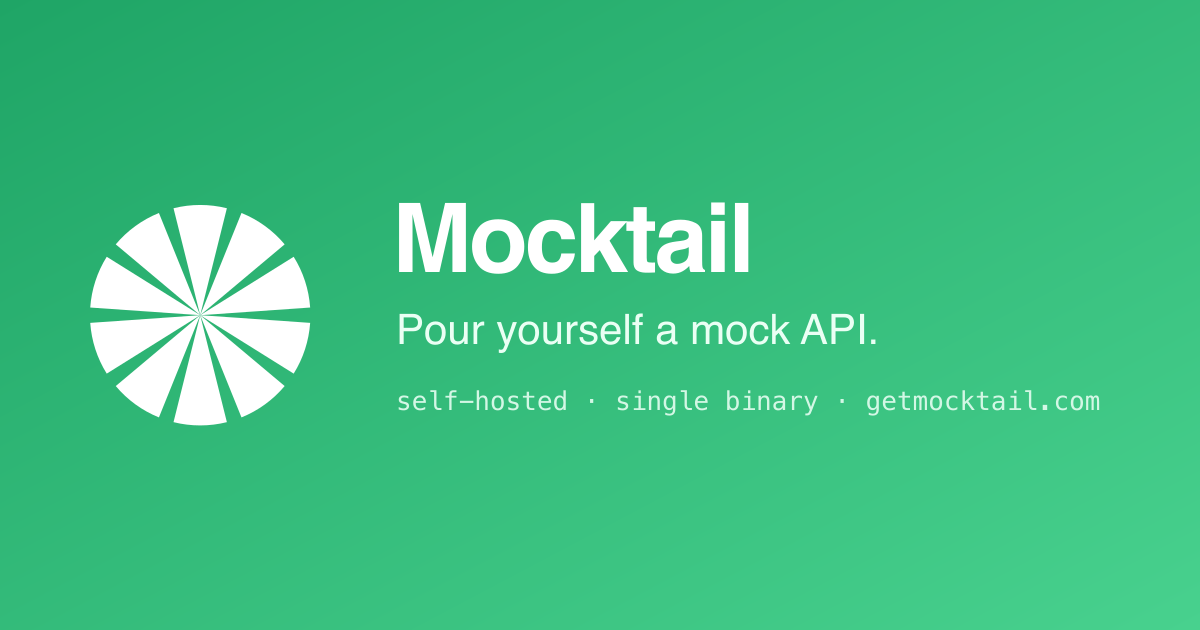
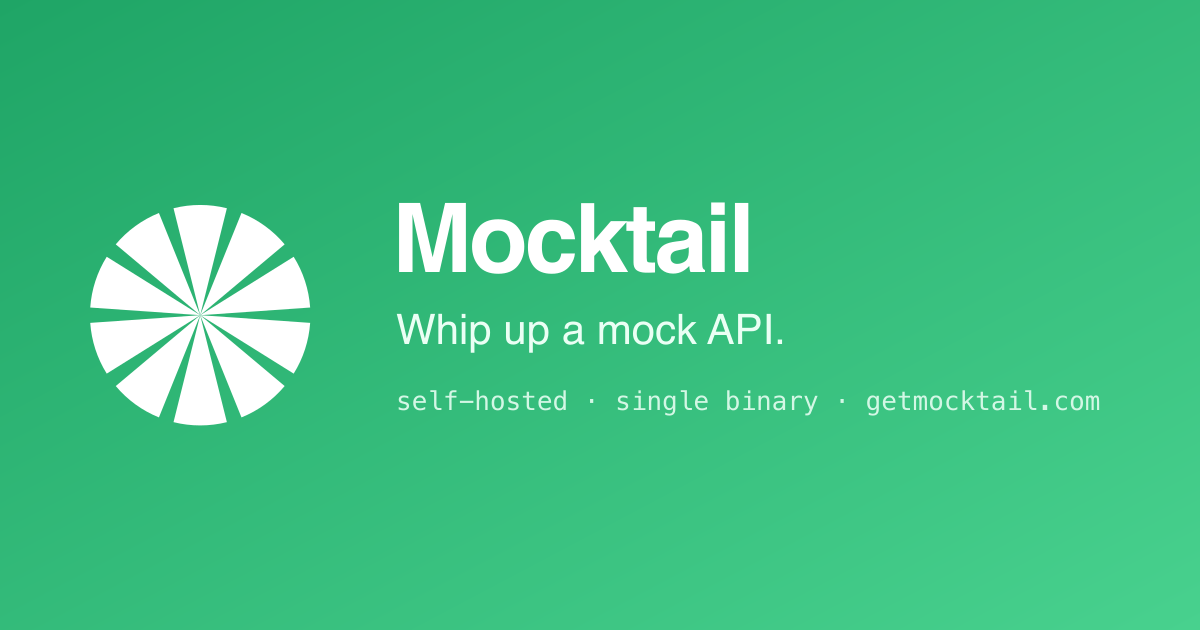
Update: release items

Changed region(s): [[0.3083, 0.4825, 0.74, 0.573]]

diff --git a/landing/index.html b/landing/index.html
@@ -110,7 +110,7 @@
   .tgl { width: 36px; height: 36px; border-radius: 50%; border: 1px solid var(--line); background: var(--card); cursor: pointer; color: var(--soft); }
   .tgl:hover { color: var(--ink); }
 
-  .hero .wrap { display: grid; grid-template-columns: 1.02fr 0.98fr; gap: 30px; align-items: center; padding: 26px 0 20px; min-height: 460px; }
+  .hero .wrap { display: grid; grid-template-columns: 1.02fr 0.98fr; gap: 30px; align-items: center; padding-block: 26px 20px; min-height: 460px; }
   .eyebrow { display: inline-flex; align-items: center; gap: 8px; font-size: 13px; font-weight: 650; color: var(--leaf); background: color-mix(in oklch, var(--leaf) 12%, transparent); padding: 5px 12px; border-radius: 999px; }
   h1.big { font-size: clamp(42px, 6.4vw, 66px); line-height: 1.0; margin: 20px 0 0; }
   .sub { font-size: 18px; color: var(--soft); max-width: 450px; margin: 20px 0 28px; font-weight: 500; }
@@ -214,6 +214,7 @@
   .way { border: none; background: transparent; font-family: var(--mono); font-size: 13px; font-weight: 650; padding: 8px 18px; border-radius: 999px; cursor: pointer; color: var(--soft); display: inline-flex; align-items: center; gap: 7px; }
   .way[aria-selected="true"] { background: var(--card); color: var(--ink); box-shadow: 0 3px 10px -4px oklch(0.4 0.1 140 / 0.4); }
   .way .rec { font-size: 9px; font-weight: 800; color: white; background: var(--leaf); border-radius: 999px; padding: 1px 6px; letter-spacing: 0.04em; }
+  .way .soon { font-size: 9px; font-weight: 800; color: var(--soft); background: color-mix(in oklch, var(--soft) 16%, transparent); border-radius: 999px; padding: 1px 6px; letter-spacing: 0.04em; }
   .glassterm { max-width: 640px; margin: 0 auto; background: var(--card); border-radius: 18px; box-shadow: var(--sh); border: 1px solid var(--line); overflow: hidden; text-align: left; }
   .glassterm .h { display: flex; align-items: center; gap: 8px; padding: 13px 18px; border-bottom: 1px solid var(--line); }
   .glassterm .h .d { width: 10px; height: 10px; border-radius: 50%; }
@@ -282,13 +283,13 @@
 <header class="hero" id="top">
   <div class="wrap">
     <div>
-      <h1 class="big">Pour yourself a<br><span class="grad">mock API</span>.</h1>
+      <h1 class="big">Whip up a<br><span class="grad">mock API</span>.</h1>
       <p class="sub">A complete mock server and dashboard in one little binary — mixed fresh on your machine. No cloud, no sign-up, no bitter aftertaste.</p>
       <div class="cta">
         <a class="btn primary" href="#install">Start mixing →</a>
         <a class="btn text" href="https://github.com/Huseyinnurbaki/mocktail" target="_blank" rel="noreferrer">Star on GitHub</a>
       </div>
-      <div class="run"><b>brew install --cask mocktail</b> — a native app, on your desktop</div>
+      <div class="run">Install with <b>Homebrew</b> or <b>Docker</b> — the dashboard opens at localhost:6625</div>
     </div>
     <div class="stage" aria-hidden="true">
       <div class="halo"></div>
@@ -308,7 +309,6 @@
 <section class="showcase">
   <div class="wrap">
     <div class="cap">
-      <span class="eyebrow">The whole thing</span>
       <h2>A dashboard that comes in the box.</h2>
     </div>
     <div class="window" aria-hidden="true">
@@ -450,14 +450,15 @@
       <p>The dashboard comes with it. Open <span class="mono">localhost:6625</span> and start mocking.</p>
     </div>
     <div class="ways" role="tablist">
-      <button class="way" role="tab" aria-selected="true" data-t="desktop">Desktop <span class="rec">EASIEST</span></button>
-      <button class="way" role="tab" aria-selected="false" data-t="brew">Homebrew</button>
+      <button class="way" role="tab" aria-selected="true" data-t="brew">Homebrew <span class="rec">EASIEST</span></button>
       <button class="way" role="tab" aria-selected="false" data-t="docker">Docker</button>
+      <button class="way" role="tab" aria-selected="false" data-t="desktop">Desktop <span class="soon">SOON</span></button>
     </div>
     <div class="glassterm">
       <div class="h"><span class="d" style="background:var(--del)"></span><span class="d" style="background:var(--put)"></span><span class="d" style="background:var(--leaf)"></span><button class="cp" id="copy">Copy</button></div>
-      <div class="b"><span class="pr">$</span><pre id="cmd">brew install --cask mocktail
-<span class="cm"># a native app — auto-picks a free port</span></pre></div>
+      <div class="b"><span class="pr">$</span><pre id="cmd">brew install --cask Huseyinnurbaki/mocktail/mocktail
+mocktail
+<span class="cm"># → opens http://localhost:6625</span></pre></div>
     </div>
   </div>
 </section>
@@ -476,7 +477,7 @@
       </div>
       <div class="qa">
         <h3>How do I install Mocktail?</h3>
-        <p>Install the desktop app with Homebrew (<span class="mono">brew install --cask mocktail</span>), run it with Docker, or use the CLI. The dashboard opens at <span class="mono">localhost:6625</span>.</p>
+        <p>Install with Homebrew (<span class="mono">brew install --cask Huseyinnurbaki/mocktail/mocktail</span>) or run it with Docker; the dashboard opens at <span class="mono">localhost:6625</span>. A native desktop app is coming soon.</p>
       </div>
       <div class="qa">
         <h3>Where does my data live?</h3>
@@ -503,7 +504,7 @@
   "mainEntity": [
     { "@type": "Question", "name": "What is Mocktail?", "acceptedAnswer": { "@type": "Answer", "text": "Mocktail is a self-hosted mock API server with a built-in dashboard, shipped as a single binary. You define endpoints and their responses, and your app calls them like a real API — locally, with no cloud service." } },
     { "@type": "Question", "name": "Is Mocktail free and open source?", "acceptedAnswer": { "@type": "Answer", "text": "Yes. Mocktail is free and open source on GitHub. There's no sign-up and no paid tier to use it — it runs entirely on your own machine." } },
-    { "@type": "Question", "name": "How do I install Mocktail?", "acceptedAnswer": { "@type": "Answer", "text": "Install the desktop app with Homebrew (brew install --cask mocktail), run it with Docker, or use the CLI. The dashboard opens at localhost:6625." } },
+    { "@type": "Question", "name": "How do I install Mocktail?", "acceptedAnswer": { "@type": "Answer", "text": "Install with Homebrew (brew install --cask Huseyinnurbaki/mocktail/mocktail) or run it with Docker; the dashboard opens at localhost:6625. A native desktop app is coming soon." } },
     { "@type": "Question", "name": "Where does my data live?", "acceptedAnswer": { "@type": "Answer", "text": "Everything runs locally and is stored on your machine — self-hosted, no cloud, no telemetry. Your mocks are plain JSON you can export, commit, and share." } },
     { "@type": "Question", "name": "Can Mocktail generate realistic test data?", "acceptedAnswer": { "@type": "Answer", "text": "Optionally. Serve a fixed response as-is, or attach a generator to any field (uuid, email, price, name) so it returns fresh data on every request. Point one at a real response and it anonymizes it." } },
     { "@type": "Question", "name": "Does Mocktail work with AI tools?", "acceptedAnswer": { "@type": "Answer", "text": "Yes. A built-in AI assistant drafts responses from a plain-language prompt (bring your own key), and the MCP server lets Claude Desktop and Claude Code create and edit your mocks." } }
@@ -533,12 +534,12 @@
     root.setAttribute("data-theme", next); localStorage.setItem("mt-v5-theme", next);
   });
   const CMDS = {
-    desktop:{ html: 'brew install --cask mocktail\n<span class="cm"># a native app — auto-picks a free port</span>', copy: "brew install --cask mocktail" },
-    brew:   { html: 'brew install mocktail\nmocktail\n<span class="cm"># → opens http://localhost:6625</span>', copy: "brew install mocktail && mocktail" },
+    brew:   { html: 'brew install --cask Huseyinnurbaki/mocktail/mocktail\nmocktail\n<span class="cm"># → opens http://localhost:6625</span>', copy: "brew install --cask Huseyinnurbaki/mocktail/mocktail && mocktail" },
     docker: { html: 'docker run -p 6625:6625 -v $(pwd)/data:/db hhaluk/mocktail:latest\n<span class="cm"># → open http://localhost:6625</span>', copy: "docker run -p 6625:6625 -v $(pwd)/data:/db hhaluk/mocktail:latest" },
+    desktop:{ html: '<span class="cm"># A native desktop app is coming soon.</span>\n<span class="cm"># For now, install with Homebrew or Docker above.</span>', copy: "" },
   };
   const cmd = document.getElementById("cmd");
-  cmd.dataset.copy = CMDS.desktop.copy;
+  cmd.dataset.copy = CMDS.brew.copy;
   document.querySelectorAll(".way").forEach(w => w.addEventListener("click", () => {
     document.querySelectorAll(".way").forEach(x => x.setAttribute("aria-selected", "false"));
     w.setAttribute("aria-selected", "true");

diff --git a/mocktail-ui/src/hooks/useLatestRelease.ts b/mocktail-ui/src/hooks/useLatestRelease.ts
@@ -1,14 +1,17 @@
 import { useEffect, useState } from 'react'
 
-const REPO = 'Huseyinnurbaki/mocktail'
+// The latest version is published as a static file on our own domain (Cloudflare CDN) rather
+// than the GitHub API — no rate limits, we own the payload, and it carries release highlights.
+const VERSION_URL = 'https://getmocktail.com/version.json'
 
 export type ReleaseState = {
   status: 'checking' | 'latest' | 'outdated' | 'unknown'
   latest?: string
   url?: string
+  highlights?: string[]
 }
 
-// Session cache — check GitHub at most once per app run (and never block anything on it).
+// Session cache — check at most once per app run (and never block anything on it).
 let releaseCache: ReleaseState | null = null
 
 function cmpVer(a: string, b: string): number {
@@ -21,23 +24,28 @@ function cmpVer(a: string, b: string): number {
   return 0
 }
 
-/** Checks GitHub's latest release once (per app run) and compares to the running version. */
+/**
+ * Reads getmocktail.com/version.json once (per app run) and compares to the running version.
+ * Entirely best-effort: any failure (offline, DNS, CORS, non-200, bad JSON, or a 5s timeout)
+ * resolves to `unknown` — it never throws, never blocks render, and the app works regardless.
+ */
 export function useLatestRelease(): ReleaseState {
   const [state, setState] = useState<ReleaseState>(releaseCache ?? { status: 'checking' })
   useEffect(() => {
     if (releaseCache) return
     let alive = true
-    fetch(`https://api.github.com/repos/${REPO}/releases/latest`, {
-      headers: { Accept: 'application/vnd.github+json' },
-    })
+    const ctrl = new AbortController()
+    const timer = setTimeout(() => ctrl.abort(), 5000) // don't let a hanging endpoint linger
+    fetch(VERSION_URL, { signal: ctrl.signal })
       .then((r) => (r.ok ? r.json() : Promise.reject(new Error(String(r.status)))))
-      .then((d: { tag_name?: string; html_url?: string }) => {
-        const tag = (d.tag_name ?? '').trim()
-        releaseCache = tag
+      .then((d: { version?: string; url?: string; highlights?: string[] }) => {
+        const v = (d.version ?? '').trim()
+        releaseCache = v
           ? {
-              status: cmpVer(tag, __APP_VERSION__) > 0 ? 'outdated' : 'latest',
-              latest: tag.replace(/^v/, ''),
-              url: d.html_url,
+              status: cmpVer(v, __APP_VERSION__) > 0 ? 'outdated' : 'latest',
+              latest: v.replace(/^v/, ''),
+              url: d.url,
+              highlights: d.highlights,
             }
           : { status: 'unknown' }
         if (alive) setState(releaseCache)
@@ -46,6 +54,8 @@ export function useLatestRelease(): ReleaseState {
         releaseCache = { status: 'unknown' }
         if (alive) setState(releaseCache)
       })
+      .finally(() => clearTimeout(timer))
+    // On unmount just stop updating state — let the request finish/cache in the background.
     return () => {
       alive = false
     }

diff --git a/mocktail-ui/src/components/SettingsModal.tsx b/mocktail-ui/src/components/SettingsModal.tsx
@@ -88,10 +88,14 @@ export function SettingsModal({
             <span className="font-mono text-[11px] text-muted">v{__APP_VERSION__}</span>
             {release.status === 'outdated' ? (
               <a
-                href={SITE_URL}
+                href={release.url ?? SITE_URL}
                 target="_blank"
                 rel="noreferrer noopener"
-                title={`Update available — v${release.latest}. Click for install & upgrade docs.`}
+                title={`Update available — v${release.latest}${
+                  release.highlights?.length
+                    ? '\n\n' + release.highlights.map((h) => `• ${h}`).join('\n')
+                    : ''
+                }\n\nClick for install & upgrade docs.`}
                 aria-label={`Update available: version ${release.latest}`}
                 className="ml-auto text-accent-text transition-colors hover:text-accent"
               >

diff --git a/mocktail-api/main.go b/mocktail-api/main.go
@@ -2,8 +2,10 @@ package main
 
 import (
 	"crypto/rand"
+	"embed"
 	"encoding/hex"
 	"fmt"
+	"io/fs"
 	"log"
 	"mocktail-api/ai"
 	"mocktail-api/core"
@@ -11,6 +13,7 @@ import (
 	"mocktail-api/logger"
 	"mocktail-api/mocktail"
 	"net"
+	"net/http"
 	"os"
 	"path/filepath"
 	"strings"
@@ -18,10 +21,20 @@ import (
 
 	"github.com/gofiber/fiber/v2"
 	"github.com/gofiber/fiber/v2/middleware/cors"
+	"github.com/gofiber/fiber/v2/middleware/filesystem"
 	"github.com/joho/godotenv"
 	"github.com/ncruces/go-sqlite3/gormlite"
 	"gorm.io/gorm"
 )
+
+// uiFS holds the built dashboard, baked into the binary so it's fully self-contained (works
+// wherever it's installed — brew, a .app bundle, anywhere — no ./build directory needed).
+// The build pipeline (Makefile build-ui / Dockerfile) stages the Vite output into ./build before
+// `go build`. A committed .gitkeep keeps this compiling when the UI hasn't been built (e.g. CI's
+// Go-only job); the served dashboard is empty in that case, which those jobs don't exercise.
+//
+//go:embed all:build
+var uiFS embed.FS
 
 // API Key middleware
 func apiKeyMiddleware(c *fiber.Ctx) error {
@@ -91,8 +104,6 @@ func adminAuthMiddleware(c *fiber.Ctx) error {
 }
 
 func setupRoutes(app *fiber.App) {
-	app.Static("/", "./build")
-
 	// Health check endpoint (no auth)
 	app.Get("/health", func(c *fiber.Ctx) error {
 		return c.JSON(fiber.Map{
@@ -130,6 +141,11 @@ func setupRoutes(app *fiber.App) {
 	mocktailApi.Patch("/:endpoint/*", mocktail.MockApiHandler)
 	mocktailApi.Delete("/:endpoint/*", mocktail.MockApiHandler)
 
+	// Serve the embedded dashboard — registered LAST so it only catches paths no API route
+	// claimed (the app's UI, /assets/*, favicon, etc.). The dashboard is baked into the binary,
+	// so this works wherever the binary is installed.
+	build, _ := fs.Sub(uiFS, "build")
+	app.Use("/", filesystem.New(filesystem.Config{Root: http.FS(build), Index: "index.html"}))
 }
 
 // resolveDBPath decides where apis.db lives:
@@ -200,7 +216,46 @@ func bindListener() (net.Listener, error) {
 	return net.Listen("tcp", ":0")
 }
 
+// version is set at build time by GoReleaser via -ldflags "-X main.version=...".
+var version = "dev"
+
+const usage = `Mocktail — self-hosted mock API server + dashboard, in a single binary.
+
+Usage:
+  mocktail            Start the server (dashboard + mock API); prints the URL.
+  mocktail --version  Print the version.
+  mocktail --help     Show this help.
+
+Common environment variables:
+  MOCKTAIL_PORT       Listen port (default 6625; "auto" picks a free one).
+  MOCKTAIL_DB_PATH    SQLite file location (default: OS app-data dir).
+  MOCKTAIL_API_KEY    Require X-API-Key on served mocks (/mocktail/*).
+  MOCKTAIL_ADMIN_KEY  Protect the management API (/core/v1/*).
+
+Docs: https://getmocktail.com
+`
+
+// handleCLIFlags handles --version/--help and reports whether the program should exit early.
+func handleCLIFlags() bool {
+	if len(os.Args) < 2 {
+		return false
+	}
+	switch os.Args[1] {
+	case "--version", "-v", "version":
+		fmt.Println("mocktail", version)
+		return true
+	case "--help", "-h", "help":
+		fmt.Print(usage)
+		return true
+	}
+	return false
+}
+
 func main() {
+	if handleCLIFlags() {
+		return
+	}
+
 	// Load .env file if it exists (for local development)
 	// Silently ignore if file doesn't exist (production uses env vars directly)
 	_ = godotenv.Load()

diff --git a/roadmap.md b/roadmap.md
@@ -424,6 +424,27 @@ JSON** is the path. Add an optional `postgres` service to `docker-compose.yml`.
 
 ---
 
+## Settings — "Factory reset" (later)
+
+A user-initiated **"Reset to factory / start fresh"** action in Settings — wipes everything and
+returns Mocktail to a clean state. Distinct from the **desktop crash-recovery reset** (which repairs
+a *corrupt/locked* DB); this is the deliberate "I want a blank slate" version, and it works on **all
+channels** (Docker/CLI/desktop), not just desktop.
+
+- **Scope (decide):** at minimum, **delete all mocks** (clear the DB). Optionally also clear
+  **app settings** (theme/accent, right-panel tab in `localStorage`) and the **AI key** (`DELETE
+  /core/v1/ai/config` → keychain). Likely two buttons: *"Delete all mocks"* (data) and a broader
+  *"Reset everything"* (data + settings + key).
+- **Guardrails (destructive):** confirm-to-proceed, and an **"Export first?"** prompt (reuse the
+  existing Export) so a fresh start is never an accidental data loss. Type-to-confirm for the nuclear one.
+- **Implementation:** a `DELETE /core/v1/apis` (bulk clear) or drop+re-migrate; frontend clears
+  `localStorage`; AI key via the existing config DELETE. Depends on `MOCKTAIL_ADMIN_KEY` gating so a
+  remote instance can't be wiped unauthenticated.
+- **Relationship to desktop recovery:** the desktop "Reset data…" recovery panel can reuse the same
+  backend clear; factory reset is the same operation surfaced proactively in Settings for everyone.
+
+---
+
 ## Testing & CI
 
 **Current reality (verified):** the only Go test is `randomize/randomize_test.go`. There are **no

diff --git a/readme.md b/readme.md
@@ -18,7 +18,9 @@ No limitations or restrictions. Mock any HTTP request. Export and import your mo
 [Changelog](changelog.md) 📋 •
 [What's new in v4](changelog.md#400---2026-08-13) 🔥
 
-> **Note:** Looking for v2? See [v2.0.3](https://github.com/Huseyinnurbaki/mocktail/tree/2.0.3) - the last stable v2 release.
+> **On v3?** The last v3 release lives on the [`v3.1.9`](https://github.com/Huseyinnurbaki/mocktail/tree/v3.1.9) branch — check it out to stay on v3, or see [Upgrading from v3.x](changelog.md#400---2026-08-13) to move to v4.
+>
+> **Looking for v2?** See [v2.0.3](https://github.com/Huseyinnurbaki/mocktail/tree/2.0.3) — the last stable v2 release.
 
 </div>
 
@@ -385,6 +387,8 @@ See the full [Changelog](changelog.md) for all release notes.
 **v3.1.1** — Cross-reference detection, review modal, Randomize & Anonymize improvements
 
 ## v3.0 Changes
+
+> Historical — for the current release see [What's new in v4](changelog.md#400---2026-08-13). To run v3, check out the [`v3.1.9`](https://github.com/Huseyinnurbaki/mocktail/tree/v3.1.9) branch.
 
 ### 🎉 What's New
 

diff --git a/changelog.md b/changelog.md
@@ -15,6 +15,13 @@ live traffic view, and a CGO-free build. **Note the breaking port change below.*
   keypad), clear of the busy `3000`/`4000`/`8080` range. Update bookmarks, `-p 6625:6625` Docker
   mappings, and the MCP `MOCKTAIL_URL`. Set `MOCKTAIL_PORT` to override; `auto` scans for a free port.
 
+### ⬆ Upgrading from v3.x
+
+- **Docker:** just pull `4.0.0` and recreate — your mounted volume is unchanged, so mocks persist.
+- **Everything else:** the SQLite file moved to the OS app-data dir, so the simplest, guaranteed path
+  is **Export → Import**: in v3, **Settings → Export** your mocks to JSON; after upgrading, **Settings
+  → Import** them into v4. (Existing paths are skipped on import, so it's safe to re-run.)
+
 ### ✨ Added
 
 - **AI assistant (in-app, agentic)** — a dashboard assistant that answers questions about Mocktail
